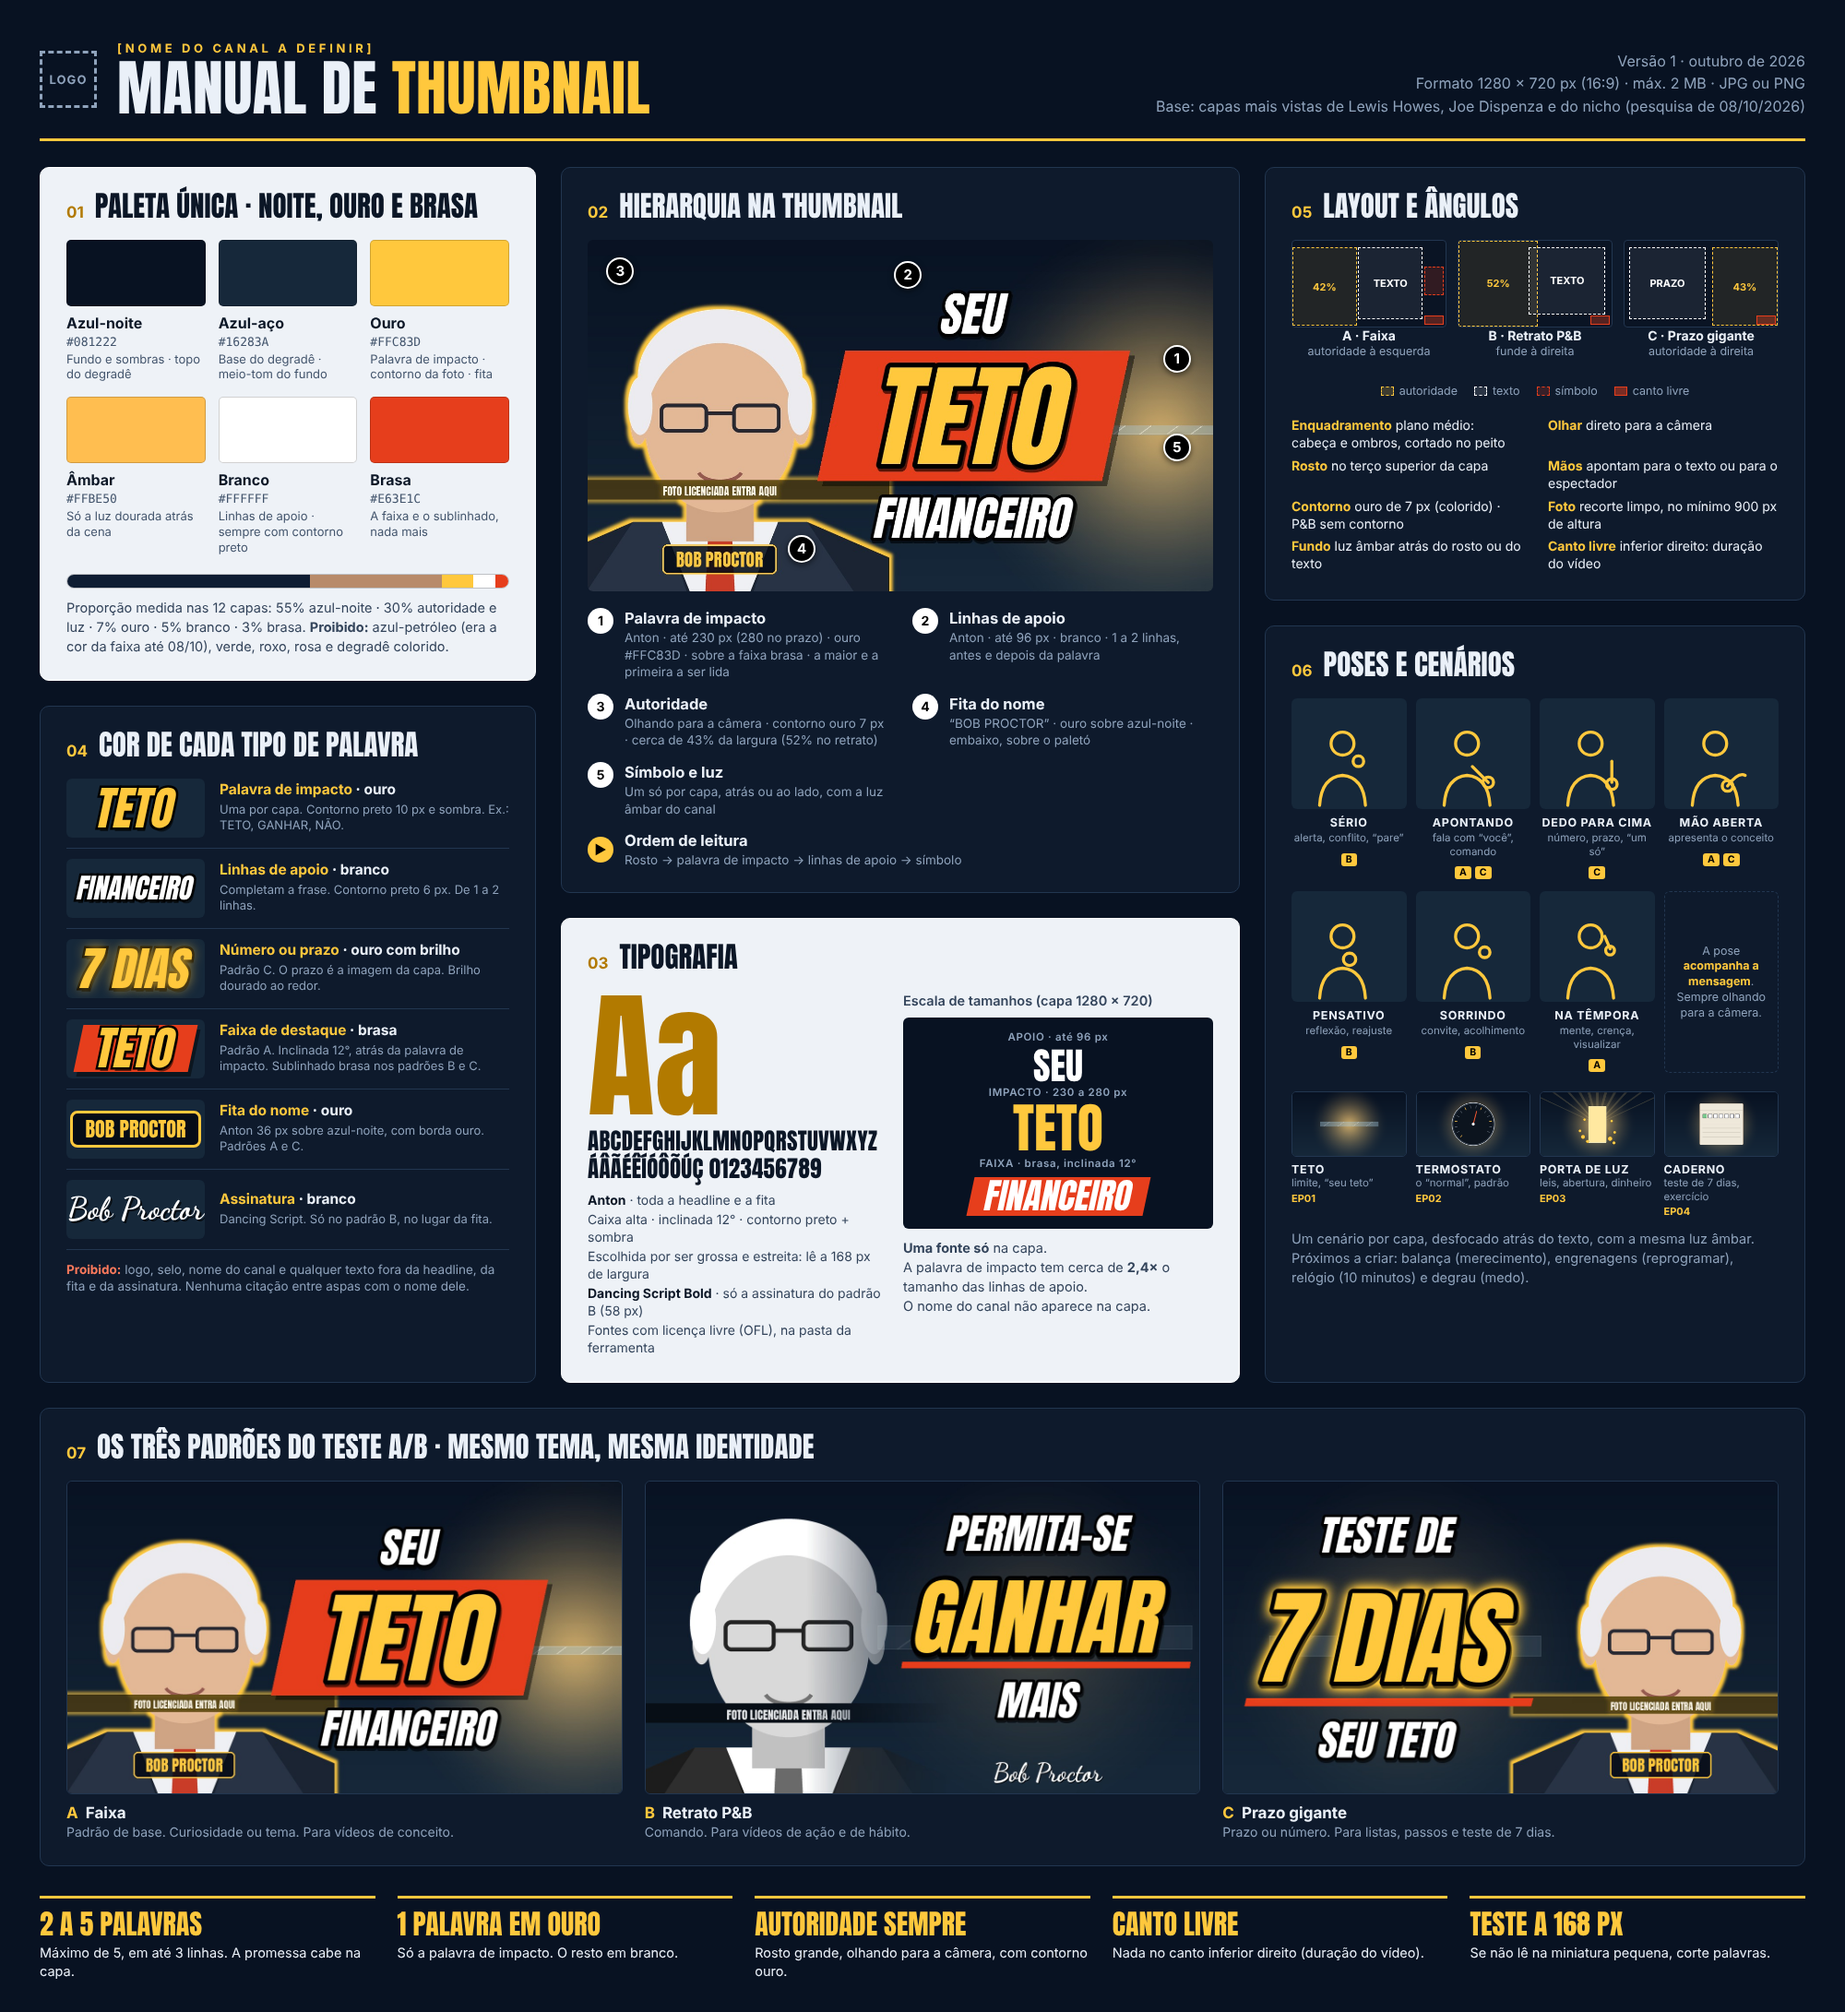
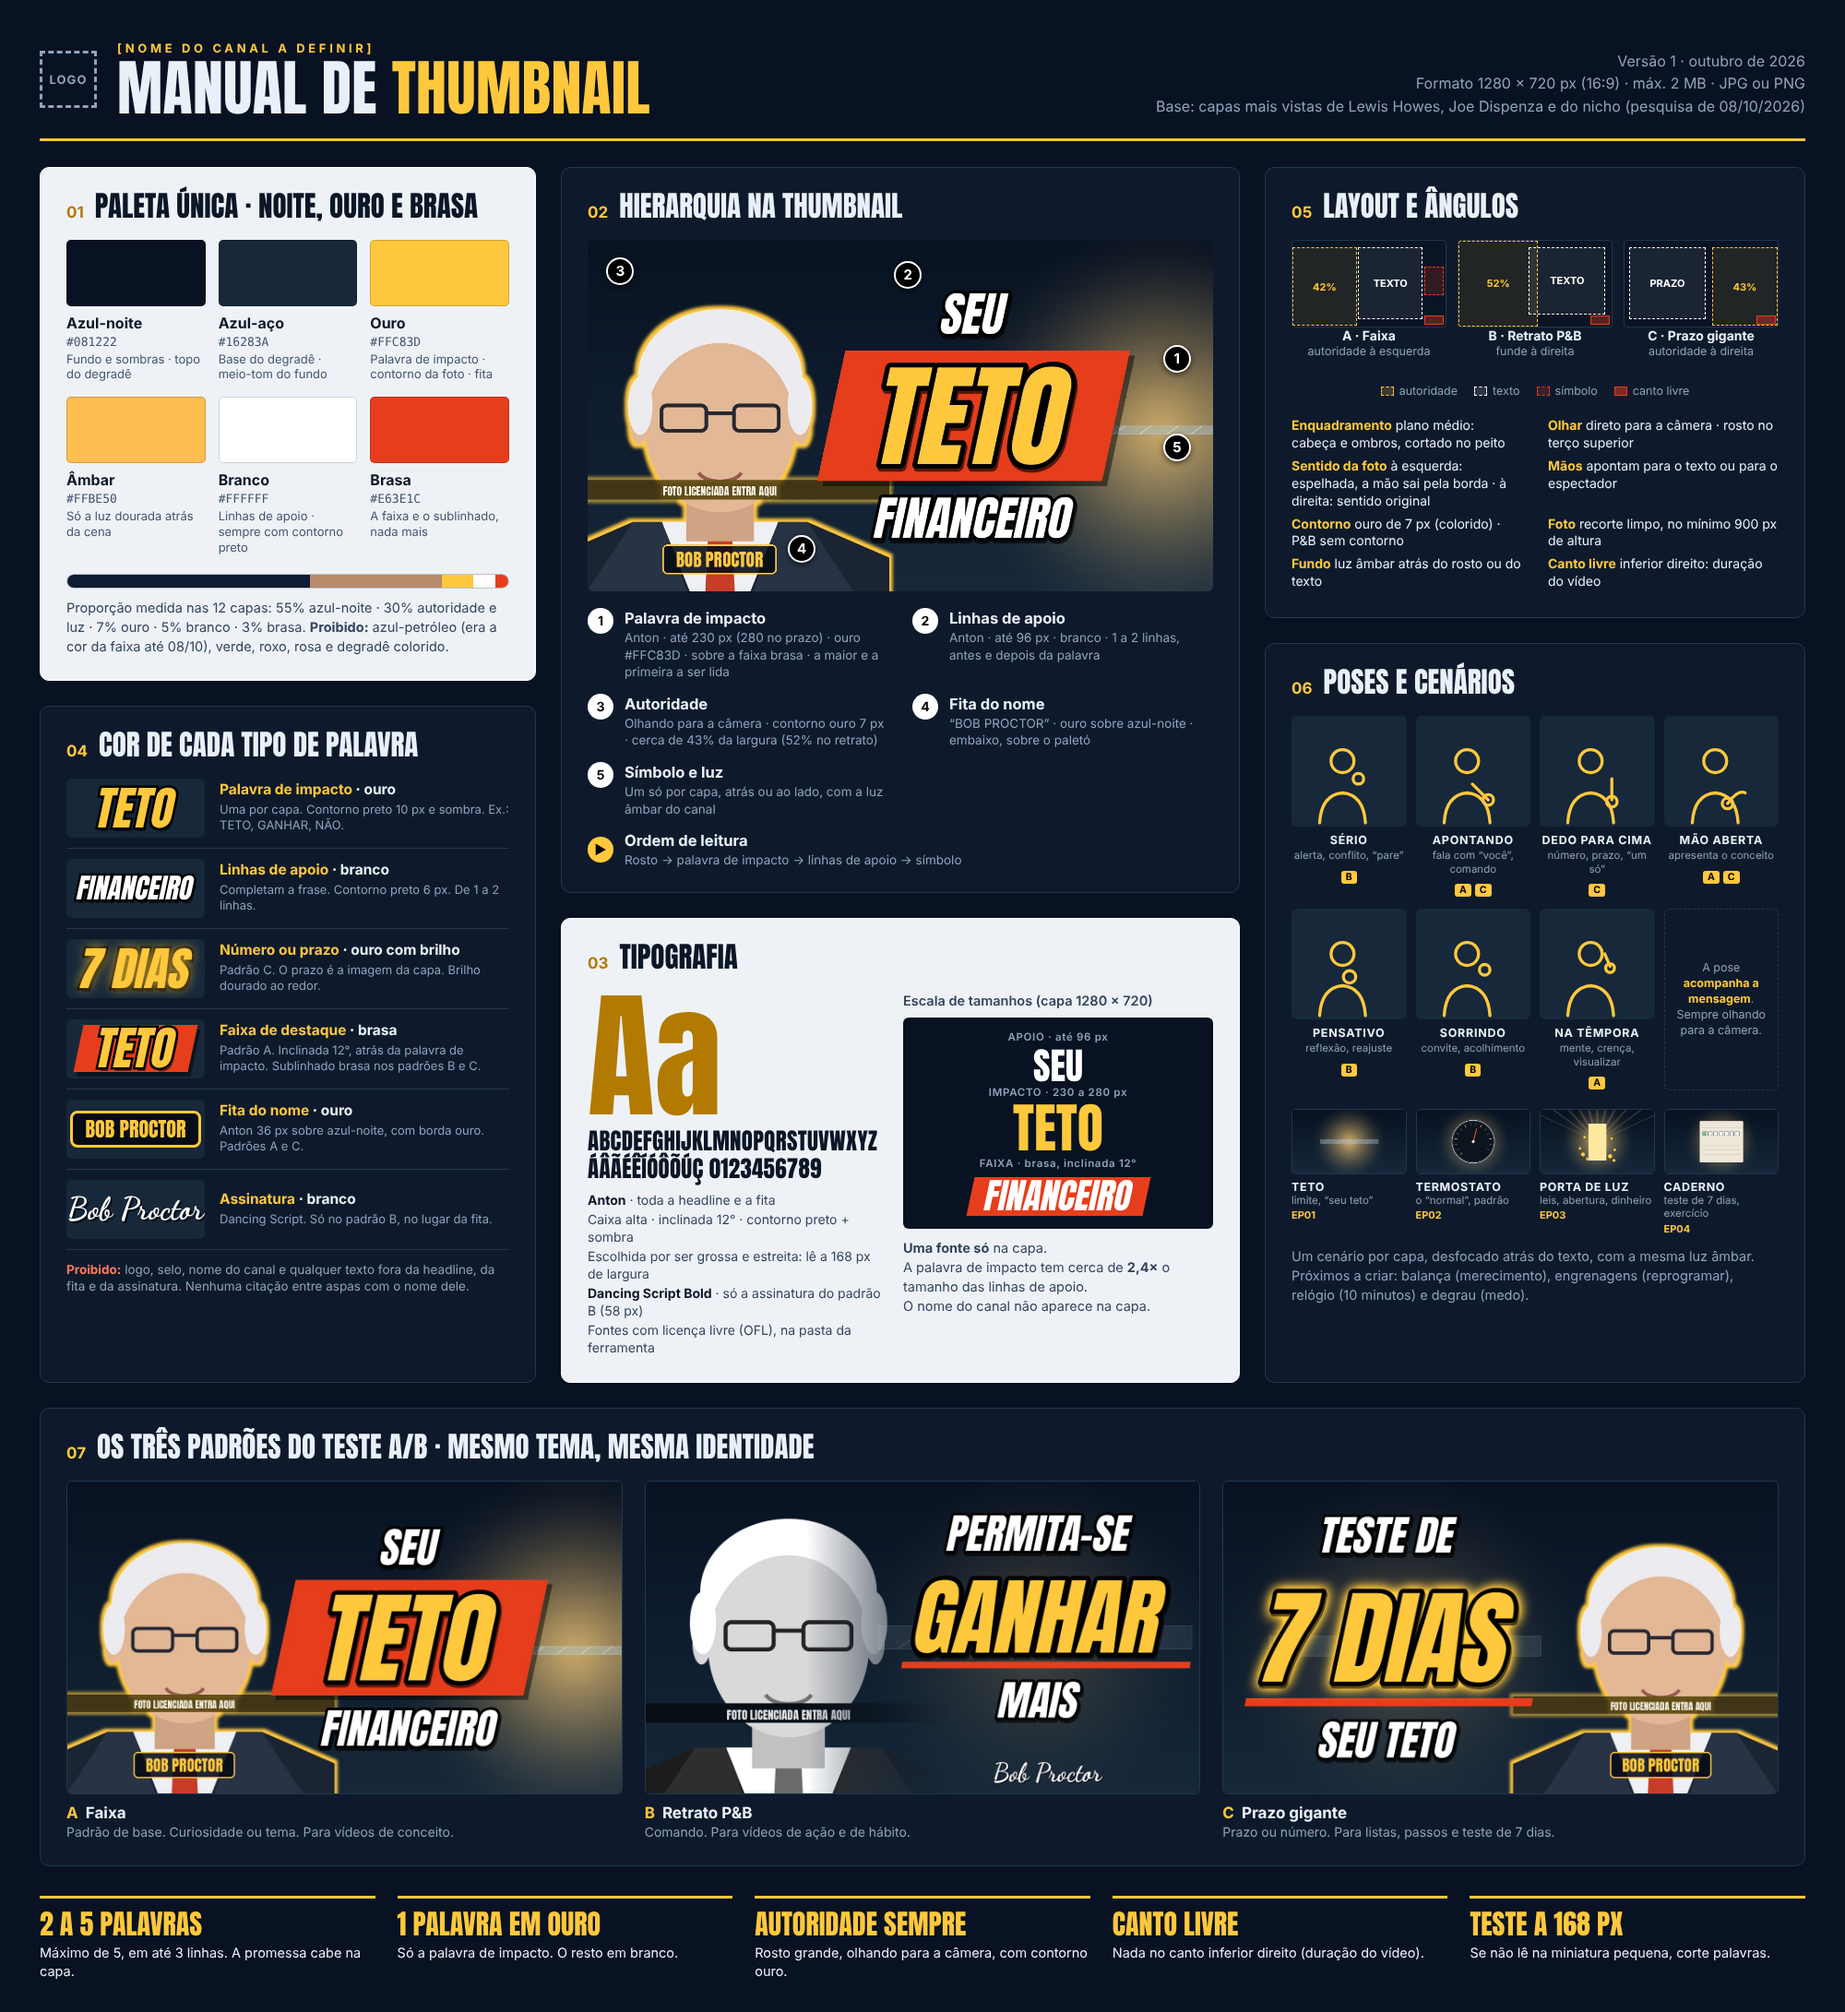
Capas: foto espelhada quando a autoridade fica à esquerda (--espelhar)
O braço sai pela borda da capa em vez de ficar cortado no meio. Manual e docs atualizados.

Claude-Session: https://claude.ai/code/session_019iMb2Y98NWqPjrbxA46xnH

Changed region(s): [[0.682, 0.3118, 0.961, 0.6547], [0.682, 0.2182, 0.806, 0.2806], [0.837, 0.2494, 0.961, 0.3118]]

diff --git a/ferramentas/capas/compor_capa.py b/ferramentas/capas/compor_capa.py
@@ -252,6 +252,8 @@ def autoridade(args, altura):
         img = busto_placeholder(altura, rotulo=not args.sem_rotulo)
     else:
         img = Image.open(args.autoridade)
+        if args.espelhar:
+            img = ImageOps.mirror(img)
         if "A" in img.getbands():
             img = img.convert("RGBA")
             caixa = img.split()[3].getbbox()  # tira a margem transparente em volta do recorte
@@ -421,6 +423,7 @@ def main():
     p.add_argument("--paleta", choices=sorted(PALETAS), default="marca")
     p.add_argument("--simbolo", choices=["teto", "termostato", "caderno", "porta"], default="teto")
     p.add_argument("--fundo", help="imagem de fundo própria no lugar da arte provisória")
+    p.add_argument("--espelhar", action="store_true", help="espelha a foto (autoridade à esquerda: a mão e o braço saem pela borda esquerda em vez de ficarem cortados no meio da capa)")
     p.add_argument("--pb", action="store_true", help="autoridade em preto e branco (o modelo retrato já usa)")
     p.add_argument("--marca", default="", help="texto pequeno de marca no canto, por exemplo o nome do canal")
     p.add_argument("--sem-rotulo", action="store_true", help="tira o rótulo do placeholder")

diff --git a/estrategia/capas-template.md b/estrategia/capas-template.md
@@ -67,6 +67,8 @@ A foto é o elemento mais importante e o que mais pede cuidado.
 
 **Como deve ser:** rosto grande e nítido, olhando para a câmera ou levemente de lado, fundo removido (PNG com transparência), pelo menos 900 pixels de altura (as 7 poses recebidas têm 935), expressão forte. O contorno dourado e o recorte são feitos pela ferramenta.
 
+**Sentido da foto:** o corpo nas fotos recebidas é cortado reto nas laterais, então o braço precisa sair pela borda da capa, nunca ficar cortado no meio dela. Autoridade à esquerda (padrões A e B): foto espelhada (`--espelhar`). Autoridade à direita (padrão C): foto no sentido original. Em 08/10 o dono do canal mandou as versões espelhadas e conferi que são cópias exatas das originais.
+
 **De onde pode vir:**
 
 - Foto com **licença comercial** que cubra o uso de imagem de uma pessoa, ou **autorização por escrito** do detentor dos direitos (por exemplo, o Proctor Gallagher Institute).

diff --git a/ferramentas/capas/README.md b/ferramentas/capas/README.md
@@ -32,6 +32,7 @@ Os três modelos usam as mesmas opções. Troque `--modelo`:
 | `--simbolo` | Arte provisória de fundo: `teto`, `termostato`, `caderno`, `porta` |
 | `--fundo` | Imagem de fundo própria (gerada), no lugar da arte provisória |
 | `--paleta` | `marca` (padrão do canal: faixa vermelho-laranja, palavra amarela) ou `vermelha` (variação de teste, palavra branca) |
+| `--espelhar` | Espelha a foto. Use com a autoridade à esquerda (modelos `faixa` e `retrato`), para a mão e o braço saírem pela borda esquerda em vez de ficarem cortados no meio da capa |
 | `--pb` | Autoridade em preto e branco (o modelo `retrato` já usa) |
 | `--marca` | Texto pequeno no canto (por exemplo o nome do canal). Desligado por padrão: as capas não levam fita com o nome do canal |
 | `--sem-rotulo` | Tira o rótulo "foto licenciada entra aqui" do placeholder |

diff --git a/estrategia/identidade-visual.md b/estrategia/identidade-visual.md
@@ -62,6 +62,7 @@ Variação de teste: palavra branca sobre a faixa brasa (`--paleta vermelha`). A
 
 - **Enquadramento:** plano médio, cabeça e ombros, cortado no peito.
 - **Olhar:** direto para a câmera. **Rosto:** no terço superior.
+- **Sentido da foto:** com a autoridade à esquerda (padrões A e B), a foto vai **espelhada**, e a mão e o braço saem pela borda esquerda da capa em vez de ficarem cortados no meio. Com a autoridade à direita (padrão C), a foto vai no sentido original, e o braço sai pela borda direita. A ferramenta faz isso com `--espelhar`.
 - **Mãos:** apontam para o texto ou para o espectador.
 - **Foto:** recorte limpo, com no mínimo 900 px de altura. As 7 poses recebidas têm 935 px.
 - **Canto livre:** nada no canto inferior direito, onde o YouTube mostra a duração do vídeo.
